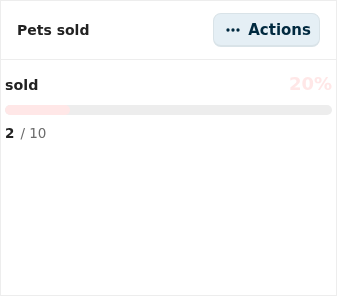
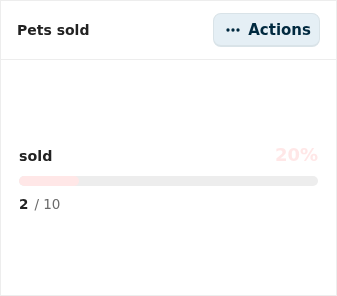
docs(widgets): a screenshot for every widget type + a dashboard gallery
- Add a Gallery showing one dashboard and one detail page composed from
  many widgets (header, stats, charts, gauge, delta, object list, image,
  data, files, relations)
- Add per-widget screenshots: object list, statistic, chart, gauge,
  delta, header banner, image, text (captured from the live Pet Store)
- Refresh the gauge close-up

diff --git a/docs/widgets.md b/docs/widgets.md
@@ -12,10 +12,22 @@ it drops into the page's grid. Each widget has a **cog** for its own
 configuration. Most widgets can be added more than once and configured
 differently each time.
 
-![Object widgets rendered on a detail page — the Object data and Object Id widgets showing live data](/screenshots/widgets/object-widgets-on-page.png)
-
 Widgets fall into two groups: **object widgets** that read your app's data, and
 **content widgets** for text, media and navigation.
+
+## Gallery: a dashboard built from widgets
+
+Every tile below is a widget configured in-app. This one dashboard from the
+[Pet Store tutorial](https://conduction.nl/academy/build-a-nextcloud-app-with-openbuild)
+combines a header banner, four statistic cards, two charts, a gauge, a
+comparison/delta, an object list and an image — no code:
+
+![A Pet Store dashboard composed of many widget types: a header banner, four stat cards, a donut chart, a line chart, a gauge, a delta, an object list and an image](/screenshots/widgets/dashboard-all-widgets.png)
+
+A detail page is the same idea bound to one object — a header, an Object data
+grid, a Files panel and an Object relations section:
+
+![A pet detail page with a header banner, an Object data grid, and Files and Object relations widgets](/screenshots/widgets/detail-all-widgets.png)
 
 ## Object widgets
 
@@ -49,12 +61,37 @@ for *Mails + Events* — and add as many as you need.
 
 ![Object relations configuration — pick which relation groups to show](/screenshots/widgets/02-object-relations-config.png)
 
-### Statistic, gauge & chart widgets
+### Object list
 
-The metric widgets read a register and render a live value. Here is a **Gauge**
-widget on a built app's dashboard, showing a value against its target:
+A list or table of objects from a register and schema, with the columns, sort
+and limit you choose:
 
-![A Gauge widget rendered on a built app's dashboard](/screenshots/widgets/gauge-widget.png)
+![An Object list widget titled "Recent pets" with Name, Species and Status columns](/screenshots/widgets/object-list-widget.png)
+
+### Statistic / KPI
+
+A single headline metric — a count, sum or average over a register — with a
+label and icon:
+
+![A Statistic widget showing "Pets 10 in catalogue" with an icon](/screenshots/widgets/stat-widget.png)
+
+### Chart
+
+A bar, line, area or donut chart bucketed or grouped over a register:
+
+![A donut Chart widget titled "Pets by status" with available, sold and pending segments](/screenshots/widgets/chart-widget.png)
+
+### Gauge / utilization
+
+A gauge for a value against a target or capacity:
+
+![A Gauge widget titled "Pets sold" showing progress toward a target](/screenshots/widgets/gauge-widget.png)
+
+### Comparison / delta
+
+A metric compared against a previous period, with the change shown as a delta:
+
+![A Comparison/delta widget titled "Revenue trend"](/screenshots/widgets/delta-widget.png)
 
 ## Content & layout widgets
 
@@ -75,6 +112,24 @@ These don't need data — they're for text, media, navigation and structure.
 | **Menu** | A navigation menu block. |
 | **News** | A news/announcements feed block. |
 | **Files** | A files panel for the object or a folder. |
+
+### Header Banner
+
+A full-width page banner with a title, subtitle and background styling:
+
+![A Header Banner widget reading "Pet Store — Pets, owners, orders and vet visits"](/screenshots/widgets/header-widget.png)
+
+### Image
+
+An image, uploaded into Nextcloud Files or referenced by a same-origin URL:
+
+![An Image widget showing a photo of a cat and dog](/screenshots/widgets/image-widget.png)
+
+### Text
+
+A rich-text / Markdown paragraph block:
+
+![A Text widget showing a Markdown welcome paragraph](/screenshots/widgets/text-widget.png)
 
 ## Appearance (every widget)
 
